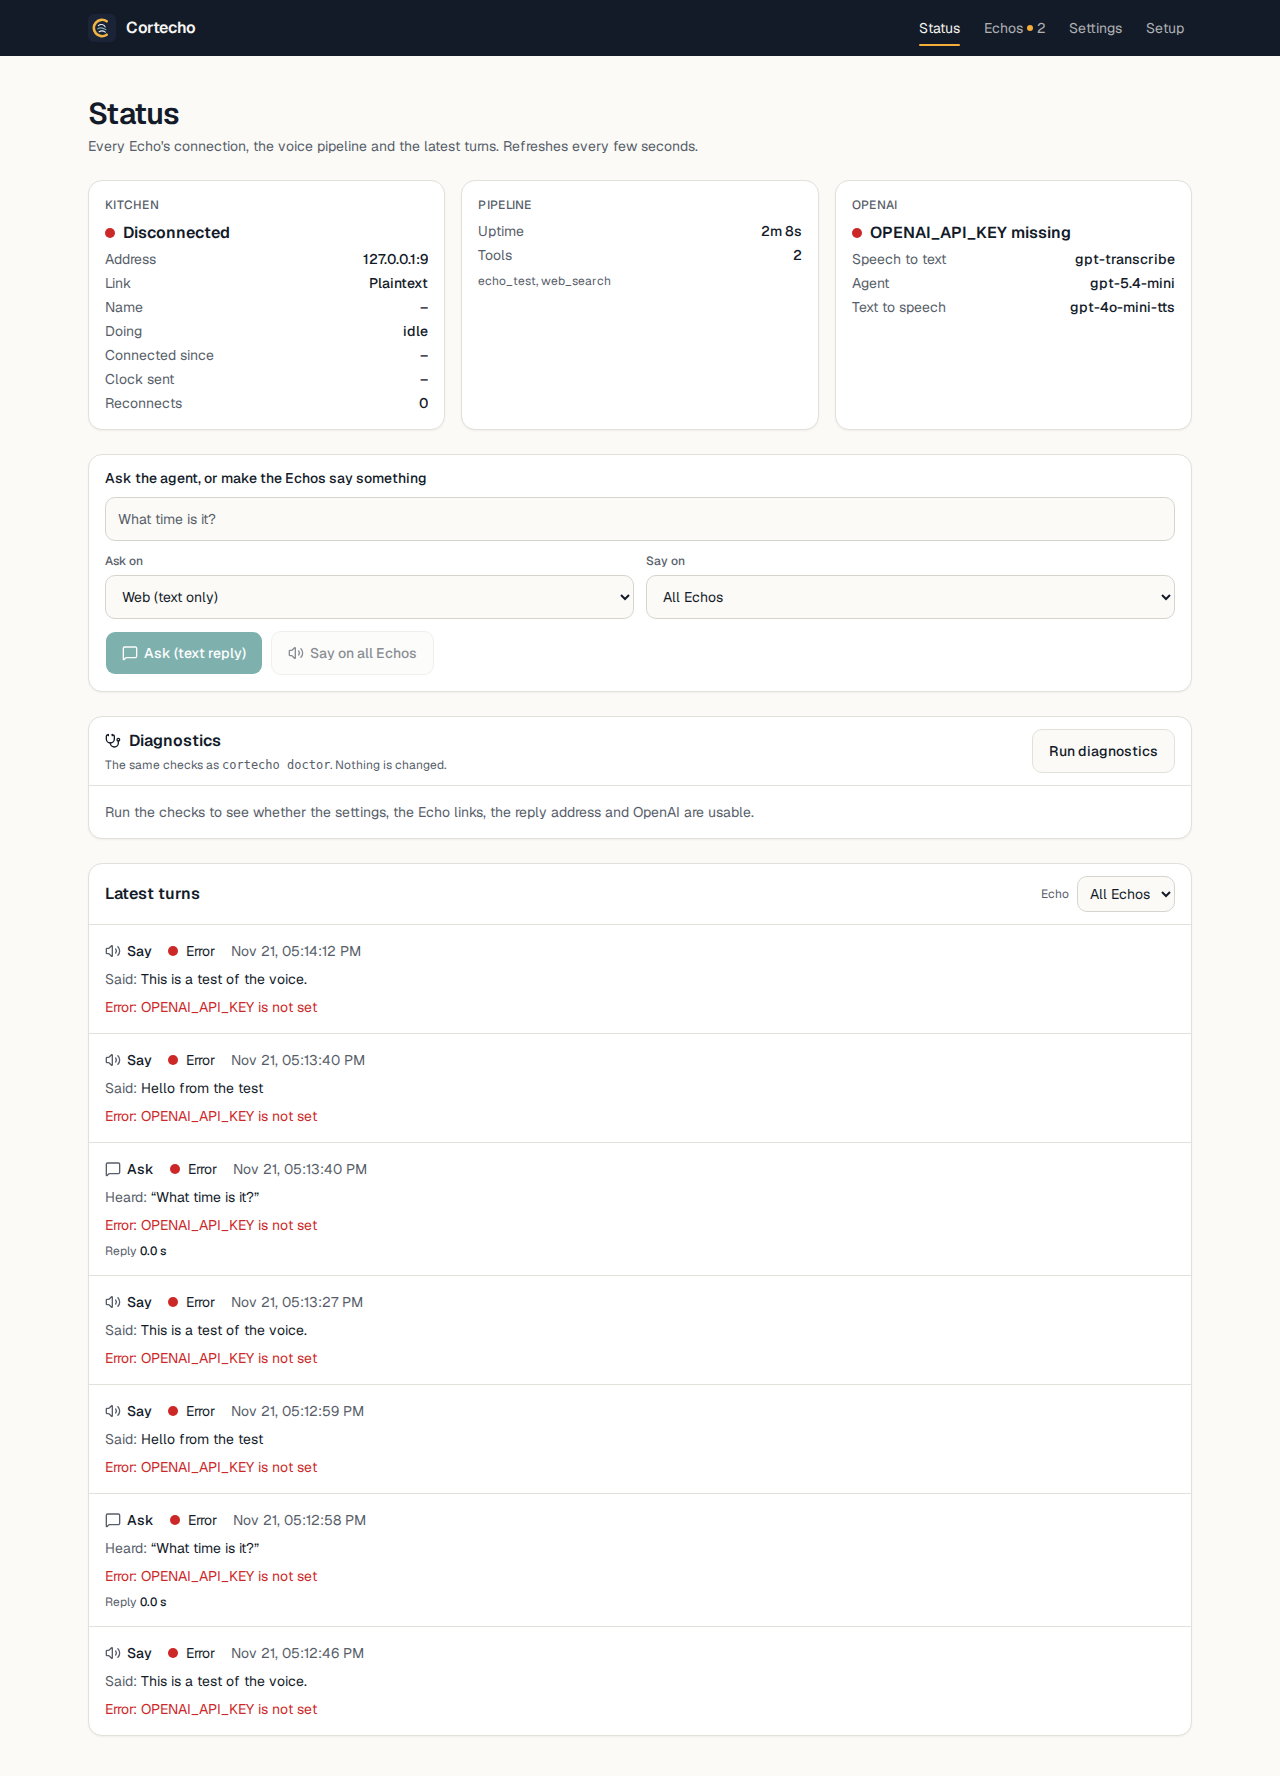
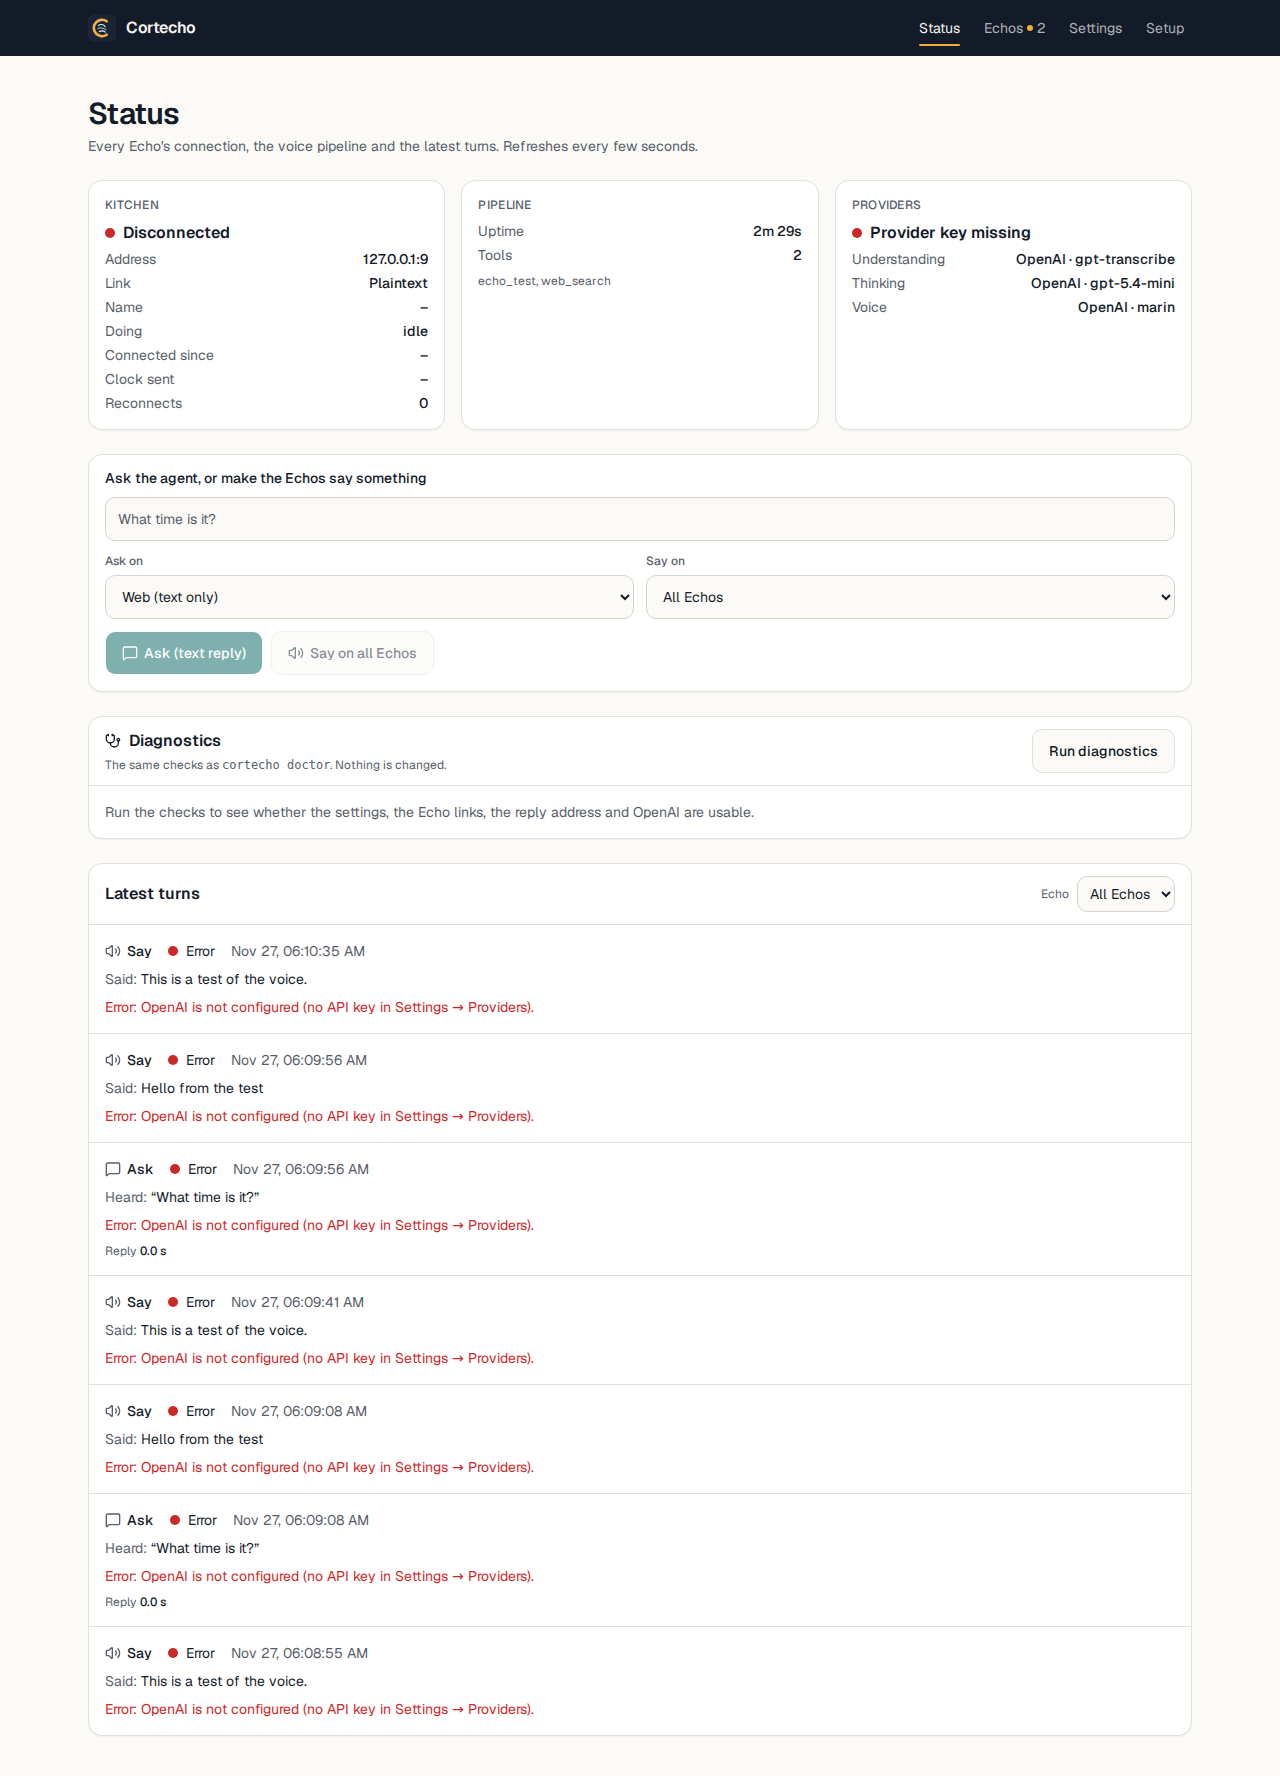
test: hermetic e2e screenshots and a smoke check that the tool really ran
- SYSTEM_PROMPT_FILE (import-only): empty skips the legacy SystemPrompt.md
  import. The e2e server sets it empty and fixes TZ, and a global setup writes
  a fictional household prompt, so committed screenshots never show the
  machine owner's private prompt or time zone. Screenshots regenerated.
- Smoke tool-action scenario asserts the mail tool call succeeded (it passed
  while the connector needed re-authorization); the report lists each tool
  call as ok/FAILED/pending, never its arguments.

diff --git a/apps/api/src/features/settings/import.ts b/apps/api/src/features/settings/import.ts
@@ -35,9 +35,13 @@ export type ImportResult = {
  */
 export function importSettingsFromEnvironment(
   store: SettingsStore,
-  { env = process.env, promptFile = path.join(REPO_ROOT, 'SystemPrompt.md') }: ImportOptions = {},
+  { env = process.env, promptFile }: ImportOptions = {},
 ): ImportResult | null {
   if (store.version !== 0 || Object.keys(store.storedValues()).length > 0) return null;
+
+  // The path comes from the environment so a run can opt out of a local,
+  // private file (the e2e suite does: an empty value means "no prompt file").
+  const file = promptFile === undefined ? promptFileFromEnvironment(env) : promptFile;
 
   const values: Record<string, unknown> = {};
   for (const descriptor of SETTING_DESCRIPTORS) {
@@ -58,8 +62,8 @@ export function importSettingsFromEnvironment(
   }
 
   let dropped: string[] = [];
-  if (promptFile) {
-    const content = readPromptFile(promptFile);
+  if (file) {
+    const content = readPromptFile(file);
     if (content !== null) {
       const split = extractHouseholdPrompt(content);
       dropped = split.dropped;
@@ -171,6 +175,18 @@ export function extractHouseholdPrompt(content: string): { text: string; dropped
     kept.push(remaining.join(' '));
   }
   return { text: kept.join('\n\n').trim(), dropped };
+}
+
+/**
+ * SYSTEM_PROMPT_FILE is import-only: unset keeps the legacy repo-root file,
+ * empty skips it, and a relative path is resolved from the repository root
+ * (the same base as DATABASE_PATH).
+ */
+function promptFileFromEnvironment(env: NodeJS.ProcessEnv): string | null {
+  const raw = env.SYSTEM_PROMPT_FILE;
+  if (raw === undefined) return path.join(REPO_ROOT, 'SystemPrompt.md');
+  const value = raw.trim();
+  return value ? path.resolve(REPO_ROOT, value) : null;
 }
 
 function readPromptFile(file: string): string | null {

diff --git a/smoke/scenarios/tool-action.smoke.ts b/smoke/scenarios/tool-action.smoke.ts
@@ -1,4 +1,5 @@
 import { afterAll, beforeAll, beforeEach, describe, expect, test } from 'vitest';
+import { resultExcerpt } from '../harness/report.ts';
 import { useSmokeEcho } from '../harness/smoke-echo.ts';
 
 // Owner decision 2026-11-21: a clear request runs the tool at once, with no
@@ -18,7 +19,19 @@ describe('a clear request runs the tool at once', () => {
     const done = await echo.wake(`Save an email draft to myself saying ${subject}`);
     expect(done.listensAgain).toBe(false);
     expect(done.said ?? '').not.toMatch(CONFIRM_QUESTION);
-    expect(done.turn?.toolCalls.map((call) => call.name).join(' ')).toMatch(/mail|draft|message/i);
+    const calls = done.turn?.toolCalls ?? [];
+    const call = calls.find((candidate) => /mail|draft|message/i.test(candidate.name));
+    if (!call) {
+      throw new Error(
+        `expected a mail/draft tool call, saw: ${calls.map((candidate) => candidate.name).join(', ') || '(none)'}`,
+      );
+    }
+    // The name alone is not enough: an unauthorized connector answers with a
+    // friendly "I couldn't save the draft" while the call itself failed.
+    expect(
+      call.ok === true && call.pending !== true,
+      `${call.name} ${call.pending ? 'is pending (not run)' : 'failed'}: ${resultExcerpt(call.result)}`,
+    ).toBe(true);
     expect(done.wire).toEndWith(['tts_end', 'run_end']);
 
     // Exactly one message: the double-action class of bug. Skipped (reported,

diff --git a/smoke/harness/report.ts b/smoke/harness/report.ts
@@ -1,6 +1,7 @@
 import { mkdirSync, writeFileSync } from 'node:fs';
 import path from 'node:path';
 import { fileURLToPath } from 'node:url';
+import type { ToolCallRecord } from '@cortecho/shared';
 
 /**
  * Each run writes `smoke/.runs/<run id>/` (spec §8): `report.md` plus one file
@@ -19,6 +20,23 @@ export function newRunId(now = new Date()): string {
     `${now.getFullYear()}${pad(now.getMonth() + 1)}${pad(now.getDate())}` +
     `-${pad(now.getHours())}${pad(now.getMinutes())}${pad(now.getSeconds())}`;
   return `smoke-${stamp}`;
+}
+
+/**
+ * A short, single-line result for a failure message. Arguments are never
+ * printed (they can carry personal data); a failed result is enough to explain
+ * why the tool did not run (for example, a connector needing re-authorization).
+ */
+export function resultExcerpt(result: string, max = 200): string {
+  const flat = result.replace(/\s+/g, ' ').trim();
+  return flat.length > max ? `${flat.slice(0, max - 1)}…` : flat;
+}
+
+/** `name ok|FAILED|pending (ms)`, plus a short result excerpt when it failed. */
+export function toolCallLine(call: ToolCallRecord): string {
+  const status = call.pending ? 'pending' : call.ok ? 'ok' : 'FAILED';
+  const base = `${call.name} ${status} (${call.durationMs} ms)`;
+  return status === 'FAILED' ? `${base}: ${resultExcerpt(call.result)}` : base;
 }
 
 export class Report {

diff --git a/e2e/global-setup.ts b/e2e/global-setup.ts
@@ -1,0 +1,26 @@
+import { type FullConfig, request } from '@playwright/test';
+
+// Screenshots are committed, so the settings page must show demo content, never
+// whatever the machine's owner had. The e2e server imports no prompt file (see
+// SYSTEM_PROMPT_FILE in playwright.config.ts); this writes a fictional one.
+export const DEMO_HOUSEHOLD_PROMPT =
+  'You are the voice assistant of the Example family in Springfield. ' +
+  'The household has two children, Ada and Sam, and a cat called Pixel. ' +
+  'Keep answers short and friendly.';
+
+export default async function globalSetup(config: FullConfig): Promise<void> {
+  const baseURL = config.projects[0]?.use.baseURL;
+  if (!baseURL) throw new Error('e2e global setup needs a baseURL');
+  const context = await request.newContext({ baseURL });
+  try {
+    const current = await context.get('/api/settings');
+    if (!current.ok()) throw new Error(`GET /api/settings failed: ${current.status()}`);
+    const { version } = (await current.json()) as { version: number };
+    const response = await context.patch('/api/settings', {
+      data: { version, changes: { 'assistant.householdPrompt': DEMO_HOUSEHOLD_PROMPT } },
+    });
+    if (!response.ok()) throw new Error(`PATCH /api/settings failed: ${response.status()}`);
+  } finally {
+    await context.dispose();
+  }
+}

diff --git a/e2e/playwright.config.ts b/e2e/playwright.config.ts
@@ -6,10 +6,14 @@ const PORT = 3200;
 // without either, and the tests never spend API credits.
 // DISCOVERY_EXTRA_TARGETS points the subnet scan at the two discoverable
 // FakeEchos; the keyed and hidden simulators stay out of it on purpose.
-const E2E_ENV = `DATABASE_PATH=./data/e2e.db PORT=${PORT} ECHO_HOST= OPENAI_API_KEY= CORTECHO_SECRET_KEY=AAAAAAAAAAAAAAAAAAAAAAAAAAAAAAAAAAAAAAAAAAA= PUBLIC_BASE_URL=http://localhost:${PORT} DISCOVERY_EXTRA_TARGETS=127.0.0.1:26101,127.0.0.1:26102`;
+// SYSTEM_PROMPT_FILE is empty so the one-time import never reads the owner's
+// private SystemPrompt.md, and TZ is fixed so the screenshots do not show the
+// machine's zone. e2e/global-setup.ts then writes the fictional demo prompt.
+const E2E_ENV = `TZ=Europe/Berlin SYSTEM_PROMPT_FILE= DATABASE_PATH=./data/e2e.db PORT=${PORT} ECHO_HOST= OPENAI_API_KEY= CORTECHO_SECRET_KEY=AAAAAAAAAAAAAAAAAAAAAAAAAAAAAAAAAAAAAAAAAAA= PUBLIC_BASE_URL=http://localhost:${PORT} DISCOVERY_EXTRA_TARGETS=127.0.0.1:26101,127.0.0.1:26102`;
 
 export default defineConfig({
   testDir: '.',
+  globalSetup: './global-setup.ts',
   // Tests share one database, so they run one at a time.
   fullyParallel: false,
   workers: 1,

diff --git a/apps/api/src/features/settings/import.test.ts b/apps/api/src/features/settings/import.test.ts
@@ -75,6 +75,27 @@ describe('importing SystemPrompt.md', () => {
     ).not.toThrow();
   });
 
+  it('reads SYSTEM_PROMPT_FILE when no explicit path is given', () => {
+    const storage = store();
+    const result = importSettingsFromEnvironment(storage, {
+      env: { SYSTEM_PROMPT_FILE: promptFile(HOUSEHOLD) },
+    });
+    expect(result?.imported).toContain('assistant.householdPrompt');
+    expect(storage.storedValues()['assistant.householdPrompt']).toBe(HOUSEHOLD);
+  });
+
+  it('imports no prompt when SYSTEM_PROMPT_FILE is empty', () => {
+    for (const value of ['', '   ']) {
+      const storage = store();
+      const result = importSettingsFromEnvironment(storage, { env: { SYSTEM_PROMPT_FILE: value } });
+      expect(result).toBeNull();
+      expect(storage.version).toBe(0);
+      expect(storage.current().settings.assistant.householdPrompt).toBe(
+        DEFAULT_SETTINGS['assistant.householdPrompt'],
+      );
+    }
+  });
+
   it('keeps a custom instruction line that is not one of the built-in rules', () => {
     const { text, dropped } = extractHouseholdPrompt(`Be concise and dry.\n\n${HOUSEHOLD}`);
     expect(text).toBe(`Be concise and dry.\n\n${HOUSEHOLD}`);

diff --git a/smoke/harness/smoke-echo.ts b/smoke/harness/smoke-echo.ts
@@ -5,7 +5,7 @@ import { pcmToWav } from '../../apps/api/src/pipeline/audio.ts';
 import { type Cleanup, createCleanup } from './cleanup.ts';
 import { CortechoApi } from './cortecho-api.ts';
 import { loadEnv, type SmokeEnv } from './env.ts';
-import { newRunId, Report } from './report.ts';
+import { newRunId, Report, toolCallLine } from './report.ts';
 import { ServerLog } from './server-log.ts';
 import { OwnerVoice, type WakeInput, withRealWavLengths } from './voice.ts';
 
@@ -420,6 +420,9 @@ export class SmokeEcho {
     this.report.line(`- Echo said: ${observation.said ? `"${observation.said}"` : '(no reply audio)'}`);
     if (turn?.reply && turn.reply !== observation.said) this.report.line(`- reply text: "${turn.reply}"`);
     if (transcribeError) this.report.line(`- transcription failed: ${transcribeError}`);
+    if (turn?.toolCalls.length) {
+      this.report.line(`- tools: ${turn.toolCalls.map(toolCallLine).join(', ')}`);
+    }
     this.report.line(
       `- outcome: ${turn?.outcome ?? '?'}, listens again: ${observation.listensAgain}, ` +
         `wire: ${observation.wire.join(' ')}`,

diff --git a/e2e/onboarding.spec.ts b/e2e/onboarding.spec.ts
@@ -40,7 +40,7 @@ test.describe('Onboarding', () => {
     if (!setup.homeConfirmed) {
       await expect(page.getByRole('heading', { name: 'Your home' })).toBeVisible();
       await expect(page.getByText('Step 2 of 4')).toBeVisible();
-      await page.getByLabel('Time zone', { exact: true }).fill('Europe/Chisinau');
+      await page.getByLabel('Time zone', { exact: true }).fill('Europe/Berlin');
       await page.getByLabel('Locale', { exact: true }).selectOption('en-GB');
       await page.getByRole('button', { name: 'Next' }).click();
       await expect.poll(async () => (await readSetup(request)).homeConfirmed).toBe(true);

diff --git a/docs/configuration.md b/docs/configuration.md
@@ -26,6 +26,7 @@ has no authentication).
 | `HOST` | `0.0.0.0` | Interface the HTTP server binds to |
 | `PORT` | `3000` | HTTP port inside the container |
 | `DATABASE_PATH` | `./data/app.db` | SQLite file (relative to the repository root) |
+| `SYSTEM_PROMPT_FILE` | `./SystemPrompt.md` | Legacy household prompt imported once on a fresh database (relative to the repository root). Empty disables the import |
 | `LOG_LEVEL` | `info` | `debug`, `info`, `warn`, `error`, `silent` |
 | `REPLY_AUDIO_TTL_MS` | `120000` | How long a reply URL stays valid |
 | `DISCOVERY_EXTRA_TARGETS` | *(none)* | Comma-separated `host:port` additions to the network scan (an Echo on another subnet, tests). The scan only connects to private IPv4 addresses |
@@ -75,7 +76,8 @@ them from `cortecho.env` after the first successful start.
   still reads these variables for its own command line.
 - The provider keys (OpenAI, ElevenLabs) and every behaviour setting: see the
   table below (its **Env** column). `SystemPrompt.md` in the project root
-  becomes the household prompt.
+  becomes the household prompt; `SYSTEM_PROMPT_FILE` can point elsewhere or be
+  empty to skip it.
 - `TZ` is special: it sets the container clock on every start **and** seeds
   `assistant.timeZone` once. Changing `TZ` later changes the container clock
   but not the assistant's time zone; change that in **Settings**.
